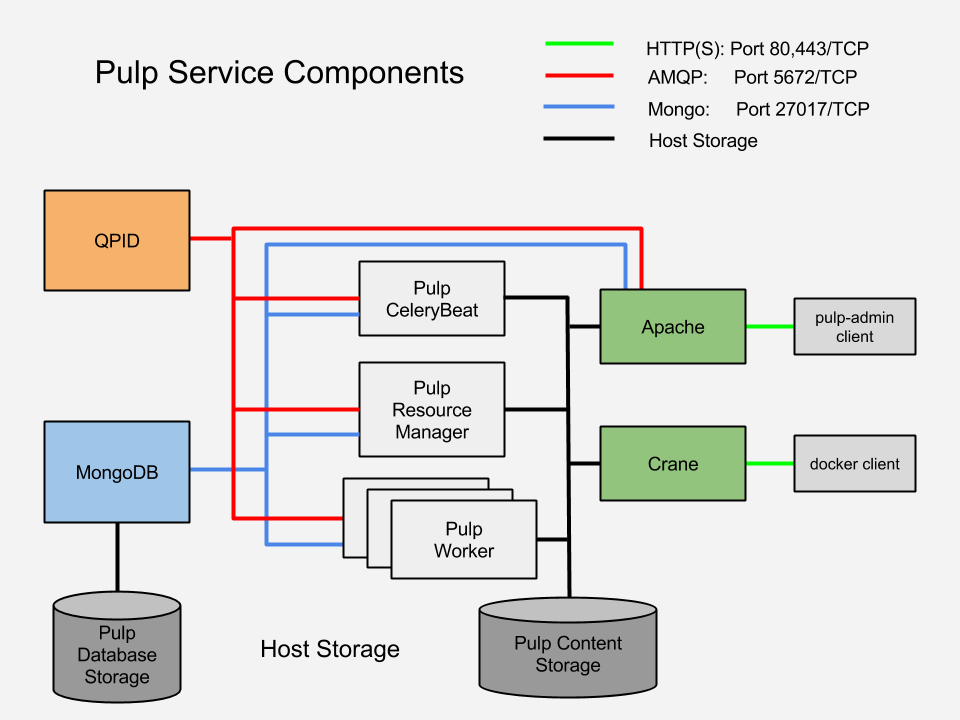
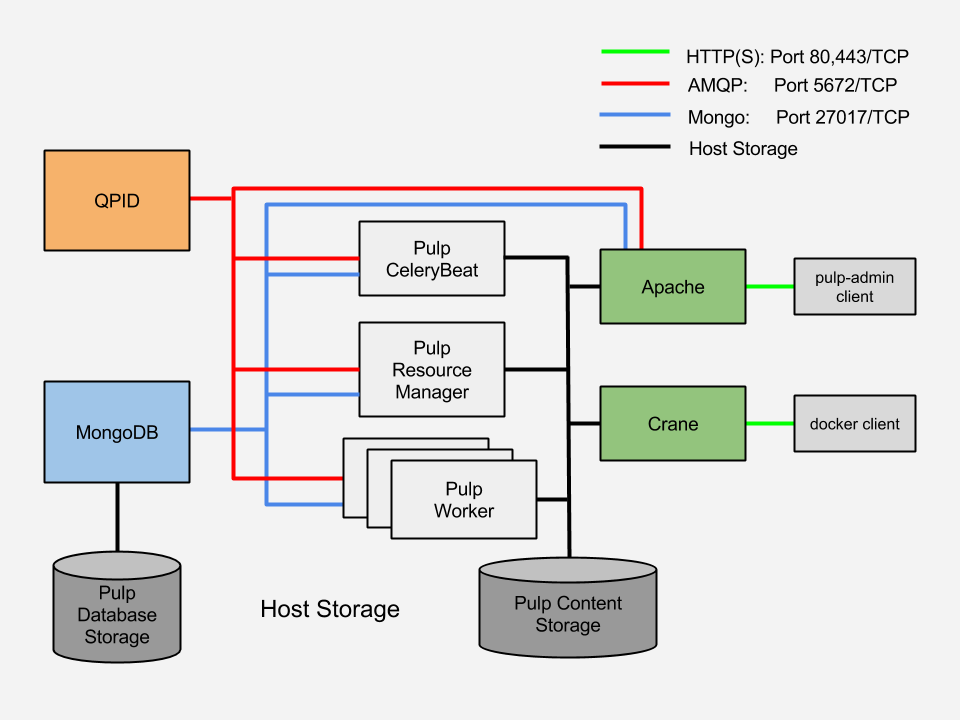
new image, cleaned up some unclear technical issues, fixed sync cmd, a few wording issues

diff --git a/docs/sphinx/user-guide/docker-quickstart.rst b/docs/sphinx/user-guide/docker-quickstart.rst
@@ -1,7 +1,7 @@
 Pulp Docker Registry Quickstart Guide
 =====================================
 
-This document explains how to use Pulp as a Docker registry. Its intended audience is Independent Software Vendors and Enterprise users who need to know how to use Pulp as a Docker registry.
+This document explains how to use Pulp as a Docker registry. Its intended audience is Independent Software Vendors and Enterprise users who want to use Pulp as a Docker registry.
 
 Pulp is a platform for managing repositories of content. Pulp makes it possible to locally mirror either all of or part of a repository. Pulp makes it possible to host content in new repositories, and makes it possible to manage content from multiple sources in a single place.
 
@@ -41,7 +41,7 @@ Click here to access the repository containing Dockerfiles for Pulp: `Dockerfile
 Pulp Service Architecture
 -------------------------
 
-The Pulp Service Architecture is a distributed task queue composed of Apache, Crane, MongoDB, QPID, Pulp CeleryBeat, Pulp Resource Manager, an arbitrary number of Pulp Workers, the pulp-admin-client, and the docker client. Workers can be spun up manually to scale the architecture.
+The Pulp Service Architecture is a multi-service application composed of an Apache web server, MongoDB and QPID for messaging. Tasks are performed using a Celery distributed task queue. Workers can be added to scale the architecture. Administrative commands are performed remotely using the pulp-admin client.
 
 .. image:: images/pulp_component_architecture.png
 The above figure details the deployment of the Pulp Service architecture.
@@ -49,21 +49,15 @@ The above figure details the deployment of the Pulp Service architecture.
 +---------------+-----------------------------------------------------------------------------------------------------------------------------------------------------------------------------------+
 |  Component    |  Role                                                                                                                                                                             |
 +---------------+-----------------------------------------------------------------------------------------------------------------------------------------------------------------------------------+
-| https         | https (Apache) is the admin interface, and serves files. It responds to pulp-admin requests.                                                                                      |
+| Apache        | Web server application (Pulp API) and serves files (RPMs, Docker images, etc). It responds to pulp-admin requests.                                                                |
 +---------------+-----------------------------------------------------------------------------------------------------------------------------------------------------------------------------------+
-| AMQP          | Apache Message Queuing Protocol. The protocol implemented by QPID that passes messages from Apache to CeleryBeat and the Pulp Resource Manager.                                   |
+| MongoDB       | Stores data.                                                                                                                                                                      |
 +---------------+-----------------------------------------------------------------------------------------------------------------------------------------------------------------------------------+
-| MongoDB       | MongoDB holds the data.                                                                                                                                                           |
+| Crane         | An Apache server that responds to Docker Registry API calls. Crane implements the Docker Registry Protocol.                                                                       |
 +---------------+-----------------------------------------------------------------------------------------------------------------------------------------------------------------------------------+
-| Host Storage  |                                                                                                                                                                                   |
-+---------------+-----------------------------------------------------------------------------------------------------------------------------------------------------------------------------------+
-| Crane         | An Apache Server that responds to Docker Registry API calls. Crane implements the Docker Registry Protocol.                                                                       |
-+---------------+-----------------------------------------------------------------------------------------------------------------------------------------------------------------------------------+
-| Workers       | The workers are brain-dead and do what they are commanded to do.                                                                                                                  |
+| QPID          | The open-source messaging system that implements Apache Message Queuing Protocol (AMQP). Passes messages from Apache to CeleryBeat and the Pulp Resource Manager.                 |
 +---------------+-----------------------------------------------------------------------------------------------------------------------------------------------------------------------------------+
 | Celery Beat   | Controls the task queue. `Explanation of Celery <https://fedorahosted.org/pulp/wiki/celery>`_                                                                                     |
-+---------------+-----------------------------------------------------------------------------------------------------------------------------------------------------------------------------------+
-| QPID          | The open-source messaging system that implements AMQP.                                                                                                                            |
 +---------------+-----------------------------------------------------------------------------------------------------------------------------------------------------------------------------------+
 
 Deployment Options
@@ -91,14 +85,11 @@ Server
 
 **Host Configuration**
 
-1) Make sure that the docker daemon is running and configured to run on startup::
-       
-       $ sudo service docker start
-       $ sudo chkconfig enable docker
+1) Ensure the docker daemon is running and configured to run on startup
 
-2) Open the following ports to incoming traffic.
+2) Open the following TCP ports to incoming traffic.
 
-* TCP port 80 (HTTP)
+* 80 (HTTP)
 * 443 (HTTPS)
 * 5672 (QPID)
 * 27017 (MongoDB)
@@ -195,14 +186,14 @@ The ``install_client.sh`` script installs the required client components.::
         2 aliases created
         Login with command "pulp-admin login -u admin -p admin"
 
-3) using the remote pulp-admin client. In this example, the default username is "admin" and the default password is "admin". Your username and password will probably not be "admin"::
+3) using the remote pulp-admin client. In this example, the default username is "admin" and the default password is "admin". If you are not the administrator contact the Pulp administrator for your username and password::
 
         $ pulp-admin login -u admin -p admin
 
 
 A certificate is downloaded and used on subsequent commands. Credentials therefore do not need to be passed in for each command.
 
-4) Change the default admin password::
+4) If the administrator, change the default admin password::
 
         $ pulp-admin auth user update --login admin -p
         Enter new password for user [admin] : ********
@@ -214,7 +205,6 @@ A certificate is downloaded and used on subsequent commands. Credentials therefo
 | removes the ephemeral container after exiting. This adds a few seconds to execution          |
 | and is optional.                                                                             |
 +----------------------------------------------------------------------------------------------+
-
 
 
 
@@ -347,7 +337,7 @@ The ``pulp-admin`` client is required to manage the pulp server.
 Roles
 ^^^^^
 
-In the example below, we create two roles: "contributors" and "repo_admin"::
+In the example below, we create two roles: "contributor" and "repo_admin"::
 
         $ pulp-admin auth role create --role-id contributor --description "content contributors"
         $ pulp-admin auth role create --role-id repo_admin --description "Repository management"
@@ -413,7 +403,7 @@ Sync
 
 Repositories may be synced from a remote source. This enables caching of select public content behind a firewall.::
 
-        $ pulp-admin docker repo sync --repo-id rhel7 --url registry.access.redhat.com --remote-repo rhel7
+        $ pulp-admin docker repo sync --repo-id rhel7 --feed registry.access.redhat.com --upstream-name rhel7
 
 This creates a pulp repository named "rhel7" with the rhel7 images from Red Hat.
 
@@ -478,7 +468,7 @@ The ``--rm`` in the pulp-admin alias should remove every pulp-admin container af
 Logging
 ^^^^^^^
 
-Apache and the pulp workers log to journald. From the container host use ``journalctl``::
+Apache and the Pulp Celery workers log to journald. From the container host use ``journalctl``::
 
         $ sudo journalctl SYSLOG_IDENTIFIER=pulp + SYSLOG_IDENTIFIER=celery + SYSLOG_IDENTIFIER=httpd
 
